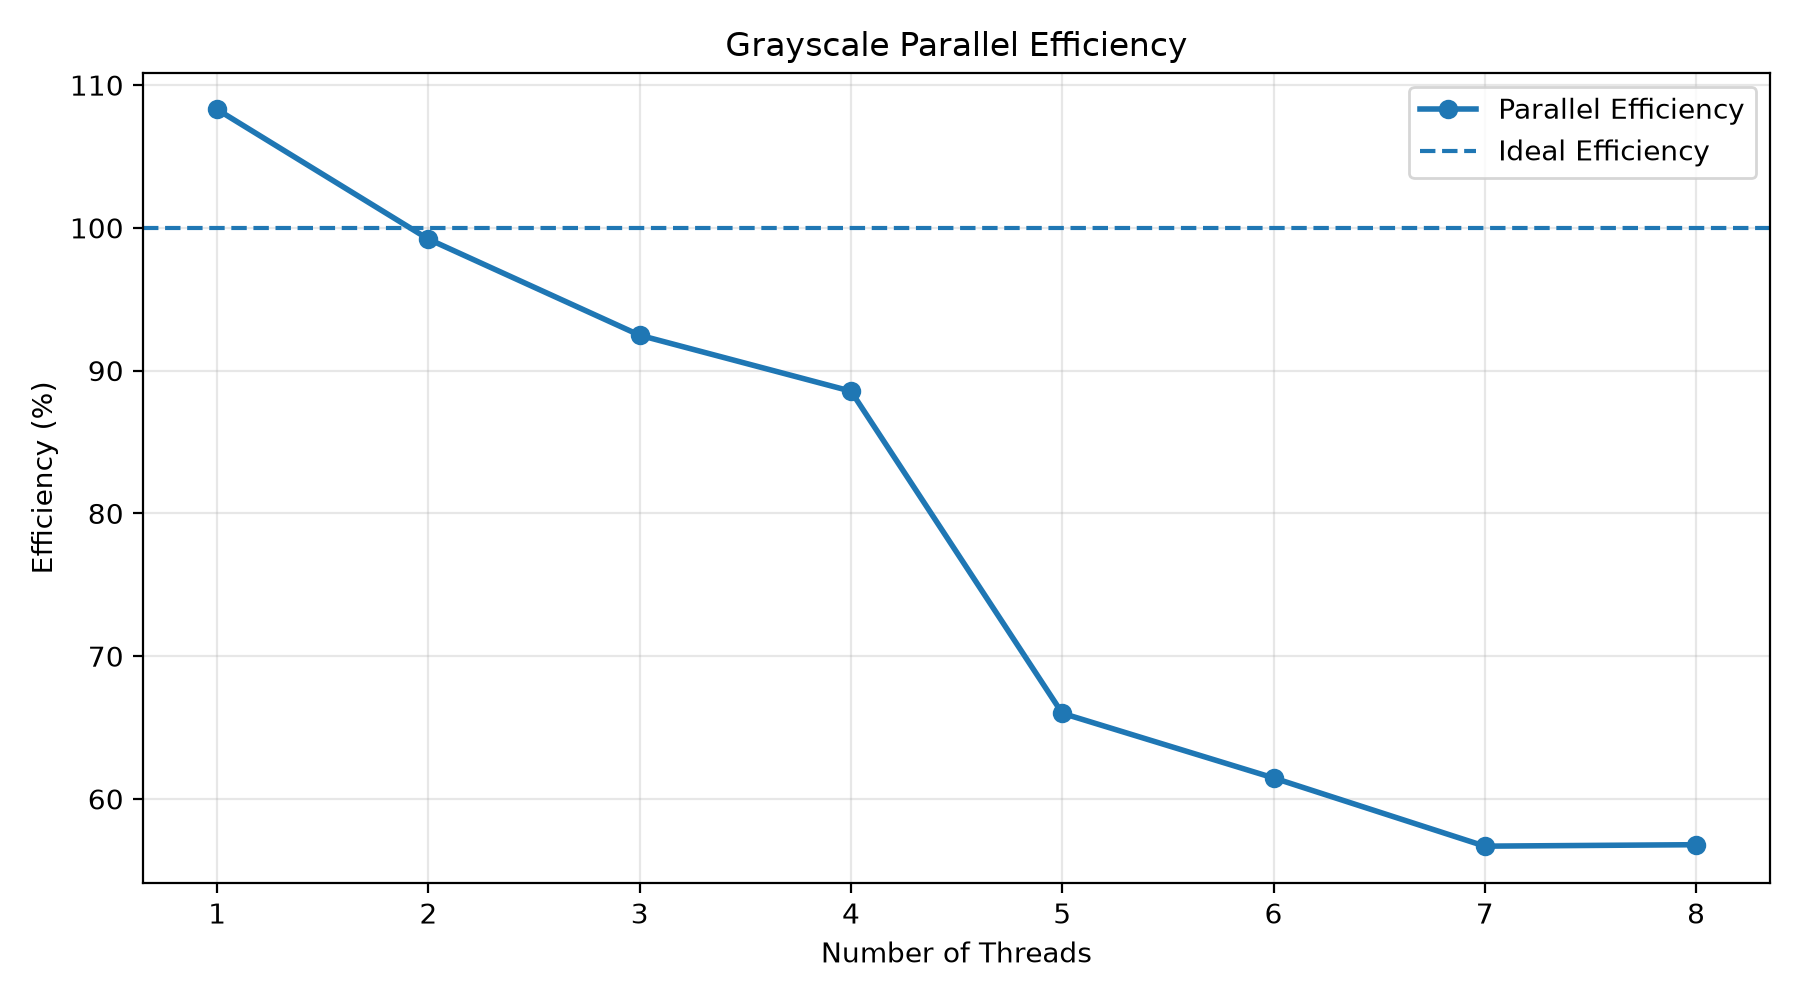
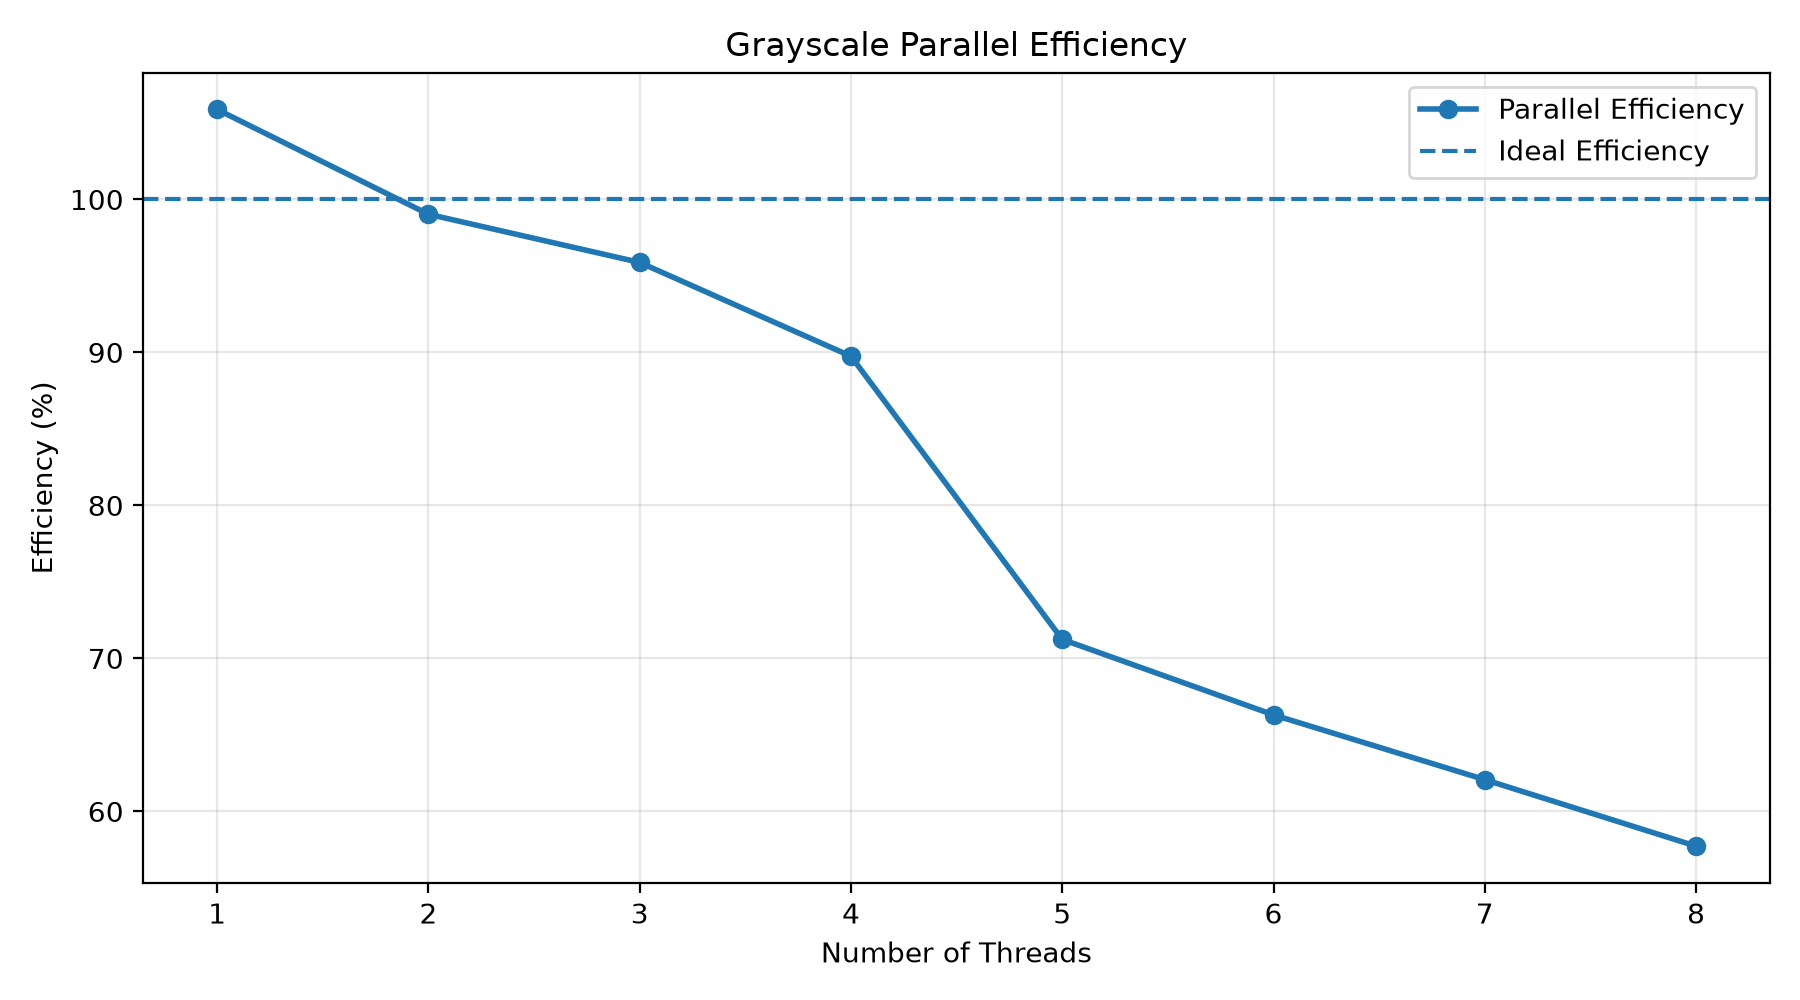
Updating the results ploting function to also plot the threasholding results

diff --git a/scripts/plot_results.py b/scripts/plot_results.py
@@ -1,3 +1,4 @@
+
 import json
 import argparse
 from pathlib import Path
@@ -37,8 +38,10 @@ def group_results(results):
 
     for result in results:
         image = result["image"]
+        filter_name = result.get("filter", "grayscale")
 
         key = (
+            filter_name,
             image["width"],
             image["height"],
             image["channels"]
@@ -104,7 +107,7 @@ def calculate_statistics(records):
     }
 
 
-def plot_execution_time(data, image_size, output_dir):
+def plot_execution_time(data, filter_name, image_size, output_dir):
     threads = data["threads"]
 
     sequential_time = data["sequential_time"] * 1000
@@ -139,7 +142,7 @@ def plot_execution_time(data, image_size, output_dir):
 
     plt.xlabel("Number of Threads")
     plt.ylabel("Execution Time (ms)")
-    plt.title("Grayscale Execution Time")
+    plt.title(f"{filter_name.title()} Execution Time")
 
     plt.xticks(threads)
     plt.grid(True, alpha=0.3)
@@ -147,12 +150,12 @@ def plot_execution_time(data, image_size, output_dir):
 
     plt.tight_layout()
 
-    filename = output_dir / f"execution_time_{image_size}.png"
+    filename = output_dir / f"{filter_name}_execution_time_{image_size}.png"
     plt.savefig(filename, dpi=200)
     plt.close()
 
 
-def plot_speedup(data, image_size, output_dir):
+def plot_speedup(data, filter_name, image_size, output_dir):
     threads = data["threads"]
     speedups = data["speedups"]
 
@@ -175,7 +178,7 @@ def plot_speedup(data, image_size, output_dir):
 
     plt.xlabel("Number of Threads")
     plt.ylabel("Speedup")
-    plt.title("Grayscale Parallel Speedup")
+    plt.title(f"{filter_name.title()} Parallel Speedup")
 
     plt.xticks(threads)
     plt.grid(True, alpha=0.3)
@@ -183,12 +186,12 @@ def plot_speedup(data, image_size, output_dir):
 
     plt.tight_layout()
 
-    filename = output_dir / f"speedup_{image_size}.png"
+    filename = output_dir / f"{filter_name}_speedup_{image_size}.png"
     plt.savefig(filename, dpi=200)
     plt.close()
 
 
-def plot_efficiency(data, image_size, output_dir):
+def plot_efficiency(data, filter_name, image_size, output_dir):
     threads = data["threads"]
     efficiencies = data["efficiencies"]
 
@@ -210,7 +213,7 @@ def plot_efficiency(data, image_size, output_dir):
 
     plt.xlabel("Number of Threads")
     plt.ylabel("Efficiency (%)")
-    plt.title("Grayscale Parallel Efficiency")
+    plt.title(f"{filter_name.title()} Parallel Efficiency")
 
     plt.xticks(threads)
     plt.grid(True, alpha=0.3)
@@ -218,7 +221,7 @@ def plot_efficiency(data, image_size, output_dir):
 
     plt.tight_layout()
 
-    filename = output_dir / f"efficiency_{image_size}.png"
+    filename = output_dir / f"{filter_name}_efficiency_{image_size}.png"
     plt.savefig(filename, dpi=200)
     plt.close()
 
@@ -228,23 +231,24 @@ def generate_charts(results, output_dir):
 
     groups = group_results(results)
 
-    for image, records in groups.items():
-        width, height, channels = image
+    for group, records in groups.items():
+        filter_name, width, height, channels = group
 
         image_size = f"{width}x{height}"
 
         data = calculate_statistics(records)
 
-        plot_execution_time(data, image_size, output_dir)
-        plot_speedup(data, image_size, output_dir)
-        plot_efficiency(data, image_size, output_dir)
+        plot_execution_time(data, filter_name, image_size, output_dir)
+        plot_speedup(data, filter_name, image_size, output_dir)
+        plot_efficiency(data, filter_name, image_size, output_dir)
 
         correct = all(
             record["outputs_identical"]
             for record in records
         )
 
-        print(f"\nImage: {image_size}")
+        print(f"\nFilter: {filter_name.title()}")
+        print(f"Image: {image_size}")
         print(f"Benchmark runs: {len(records)}")
         print(f"Correctness: {'PASS' if correct else 'FAIL'}")
         print(f"Sequential: {data['sequential_time'] * 1000:.4f} ms")
